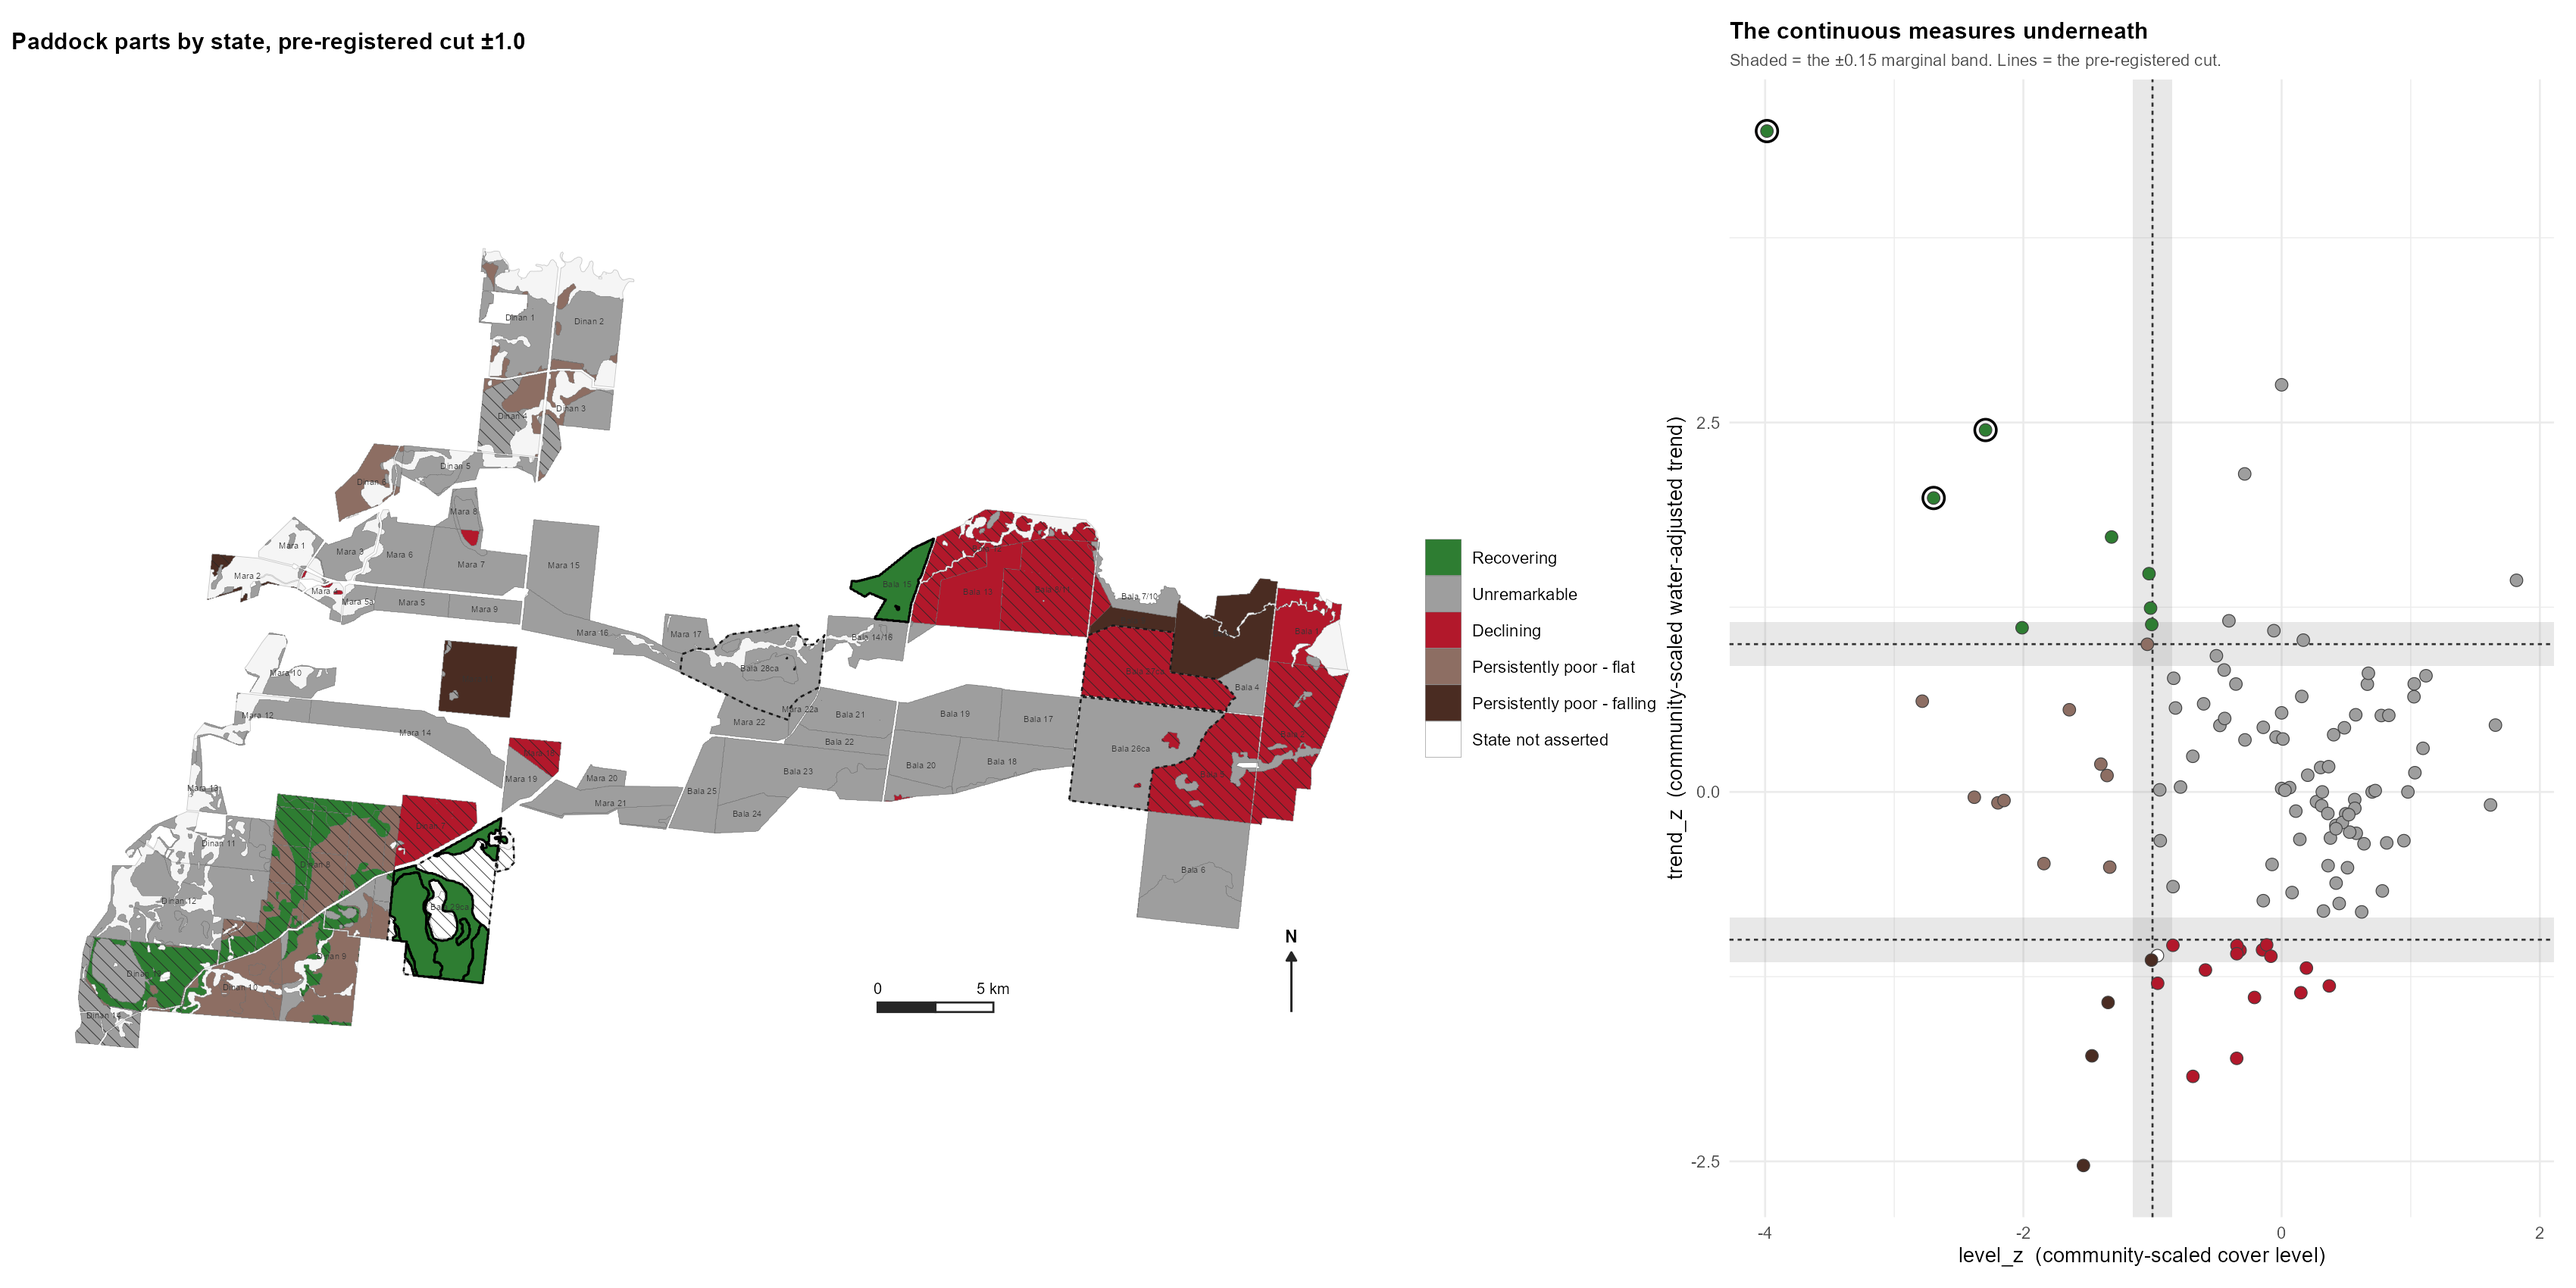
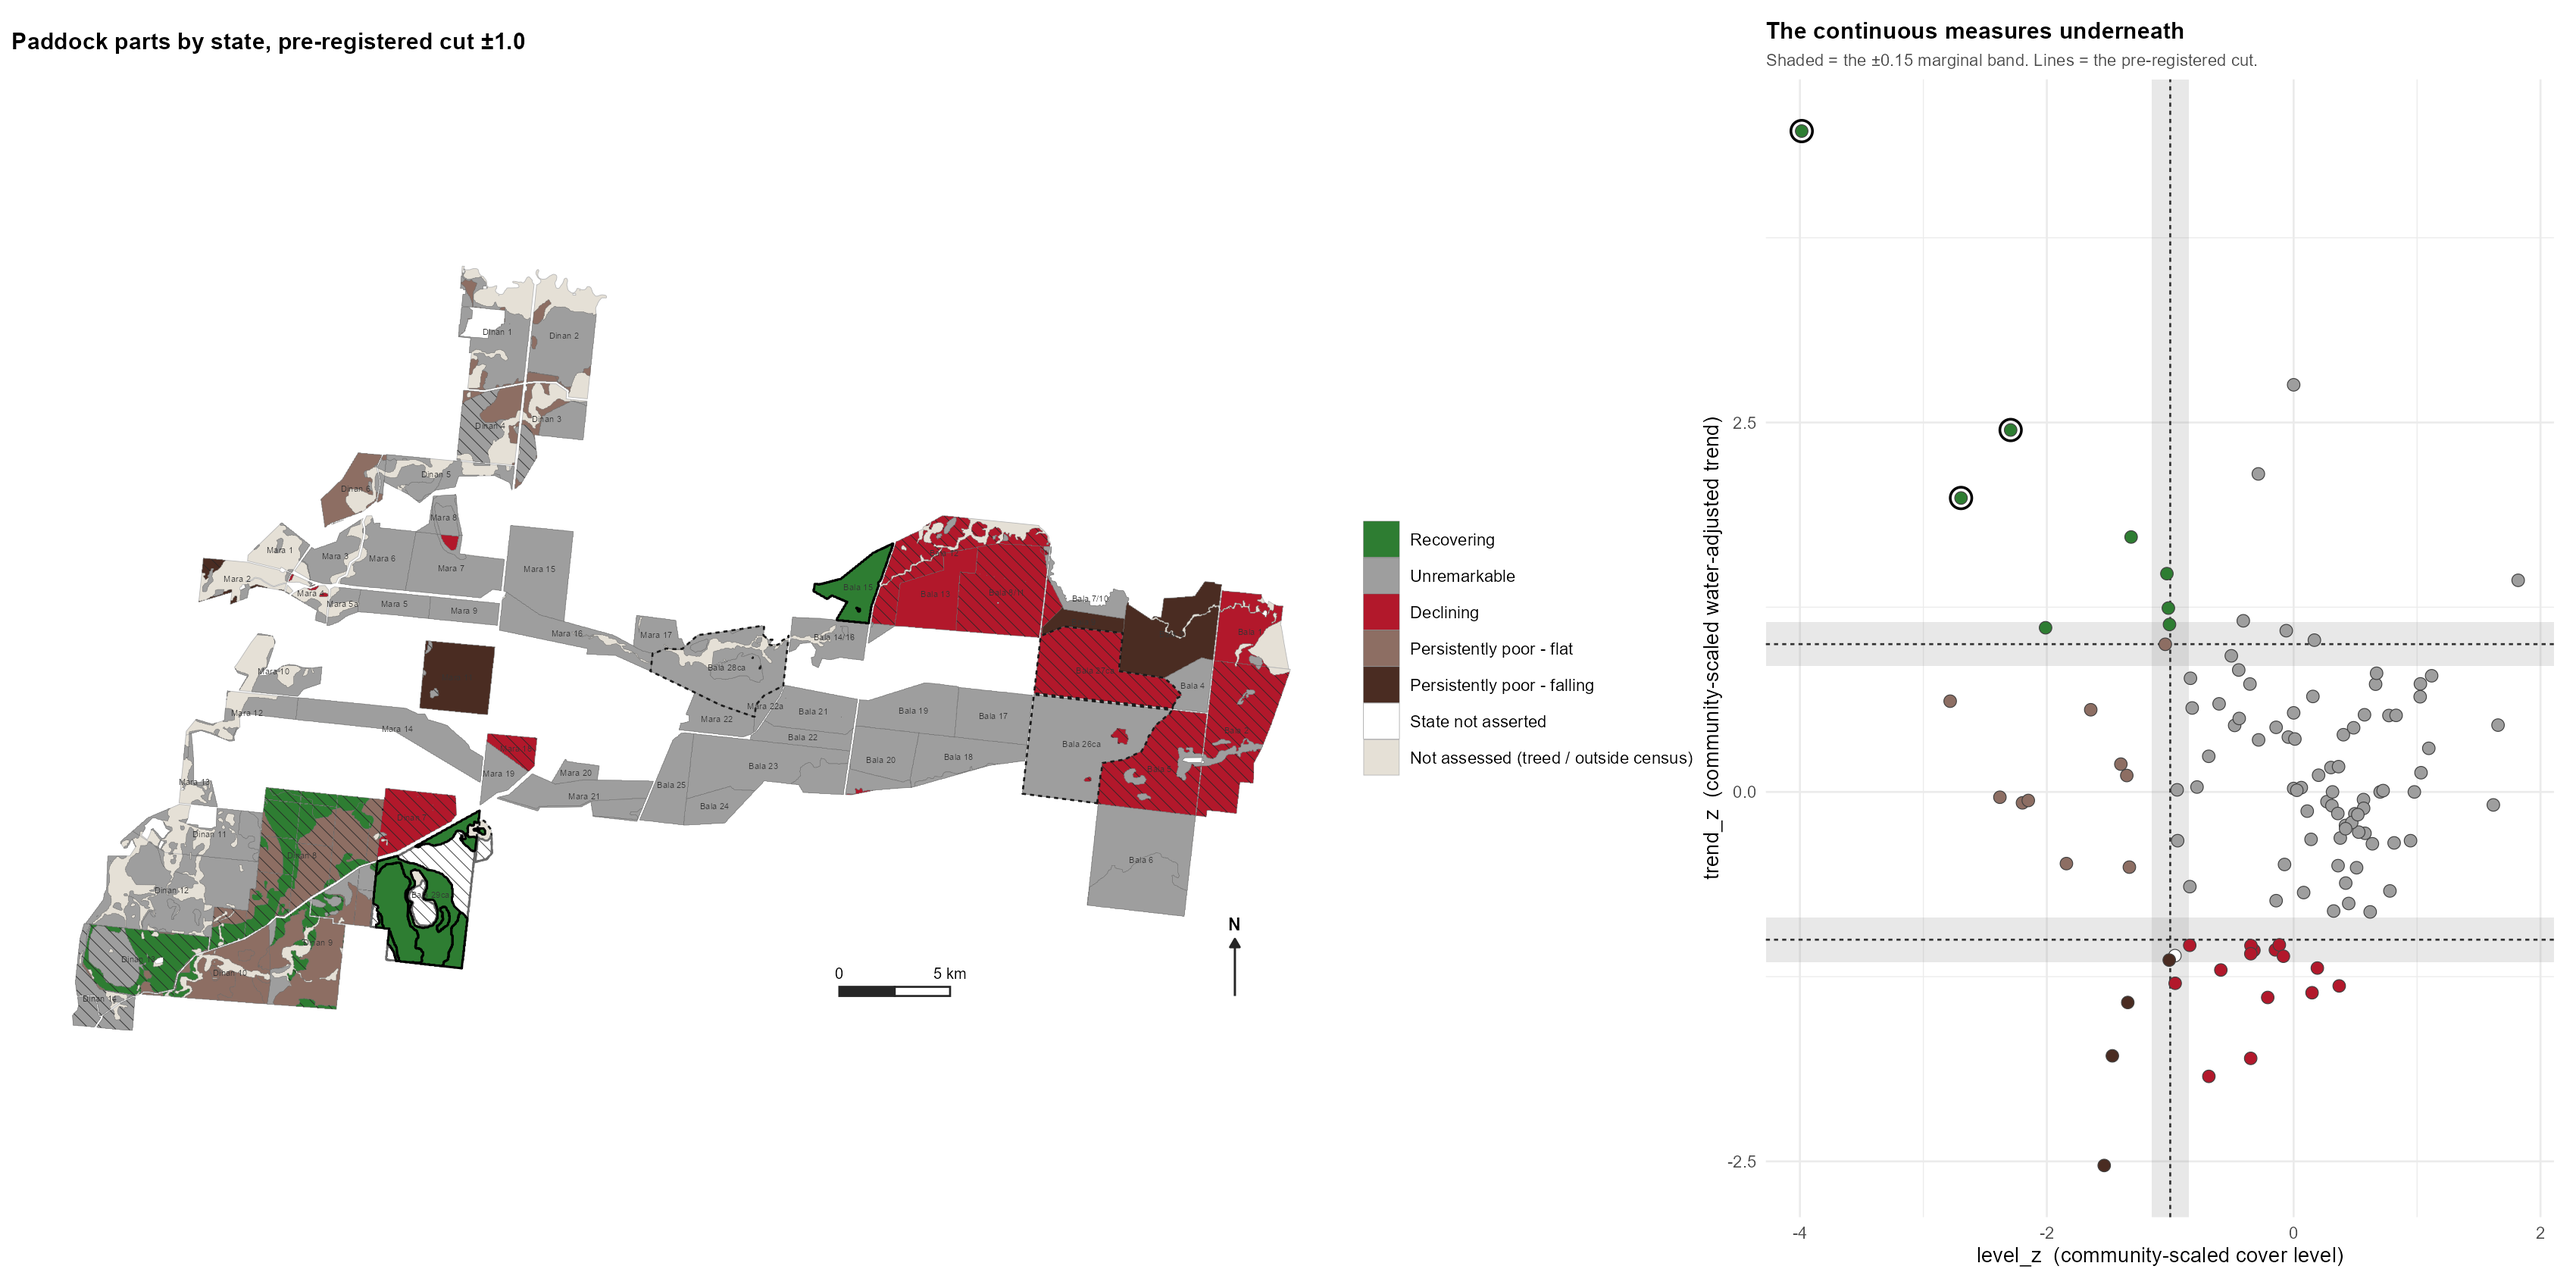
T13 Gate D fix: white meant two things - out-of-scope ground given its own fill and legend entry; geography finding and conserved-paddock note added
REQUIRED FIX. White was both the single deliberate abstention (Bala 29ca Inland) and
every out-of-scope hole - treed country, the context band, unzoned gaps - which was most
of the white on the map. One appearance, two meanings, the same class as the two floors.
Out-of-scope now fills #E5E0D6 with its own legend entry, drawn through aes() so it enters
the manual scale; Bala 29ca Inland stays white and gains a grey outline so it reads as
deliberate. Both captions state the two are different.

Addition 1 - geography verified independently, reproduces exactly (42/37/36 = 115):
declining is eastern (12 of 16 in Bala), recovering AND persistently poor are both
south-western (Dinan 5 of 8 and 10 of 14), the centre is almost entirely unremarkable
(Mara has zero recovering, 32 of 37 unremarkable). Stated in the report and one sentence
in the map caption. NOT attributed - no cause is claimed anywhere.

Addition 2 - two corrections to the ruling as written:
  * THREE conserved parts are Declining, not two. Bala 26ca Riverine (-0.322, -1.072) is
    the third, so three of the four reference paddocks carry a declining part.
  * Bala 27ca is MORE marginal on trend than Bala 29ca, not less: 0.038 from the trend
    cut against 29ca's 0.108 (29ca's 0.038 is on the LEVEL axis).
  The conclusion still holds on stronger ground: Bala 27ca is the only one of the three
  that is NOT a robustness mover - it stays Declining when the two wettest years are
[…]

diff --git a/docs/change_reports/T13_gateD_map.md b/docs/change_reports/T13_gateD_map.md
@@ -15,19 +15,18 @@ unregistered. No builder run, no existing object modified, no p-values.
 
 ---
 
-## 0. Two rulings were never stated in this session — flagging the gap
+## 0. Rulings 5 and 6 — RESOLVED
 
-Your message directs "GATE D PROCEEDS with rulings 5 and 6" and states the substance of **Ruling 6**
-(the marginal band, hatched, calibrated to 0.15). **Rulings 5 and 6 were never given in full text in
-this chat** — I have their substance only from the enumerated Gate D requirements in the same
-message. I have built to that enumerated list:
+Gate D was built before Rulings 5 and 6 had been stated in full text, from the enumerated
+requirements only. **Both have since been given and nothing was missed.**
 
-1. five fill classes · 2. hatching for the marginal set · 3. heavier outline on the 3-part core ·
-4. no state asserted for Bala 29ca Inland · 5. threshold lines and shaded marginal band on the
-scatter panel · 6. the OLS identity in the methods section · 7. the registered client sentence ·
-8. the community-SD scale line on the map, not only in methods.
+**Ruling 5** — *the sweep nesting is the headline rather than the count*: strictly nested, 15 at some
+cut, 3 at every cut, "the cut controls how many, not which", and the registered client sentence
+always carries the range. Built as §2 of the Gate C report and §5 below, and **rendered rather than
+asserted** in the sensitivity figure, where the recovering set shrinks 10 → 8 → 4 *in place*.
 
-If Ruling 5 contained anything beyond that list, it is not in this build. Please confirm.
+**Ruling 6** — the marginal band, hatched, at 0.15. Built; see §2 for the boundary-set correction,
+now ruled on.
 
 ---
 
@@ -123,8 +122,11 @@ own stated criterion, since 23 hatched reads more cleanly than 30. **Mara 18 is 
 the band, exactly as you predicted** — and it is not alone: Dinan 7 (0.188) and Bala 2 (0.205) are
 also union-only, the same three parts that Correction 2 identified as the non-marginal movers.
 
-**Say the word and I will switch to definition B.** I have not, because hatching a part that cannot
-change state is a claim the data does not support.
+**RULED, 31 July 2026: definition A stands.** `level_z = +1.0` is not a cut, the calibrated
+28 / 30 / 40 came from a phantom boundary, and 22 / 23 / 31 are correct. Band stays 0.15, boundary
+set = the three real cuts, **23 hatched**. Definition B is not to be used: seven *Unremarkable*
+parts hatched by a boundary that cannot change their state would have been **a false claim of
+uncertainty**, which is worse than the legibility gain.
 
 **Union definition as built and as stated in the caption:** a part is hatched if it is **within 0.15
 of an active cut OR changes state under the drop-two-wettest robustness run**. The caption says this
@@ -172,22 +174,103 @@ grid with the marginal polygons, and the north arrow and scale bar are drawn as 
 projected metres. Both are exact rather than approximate, and neither adds a dependency eleven days
 from the deadline. Flagging rather than installing packages on your workstation mid-gate.
 
-### The state palette is not a ratified object
+### White meant two things — fixed
 
-**No committed *state* palette exists.** The audited deck palette
-(`docs/change_reports/tier2H_gateE_palette_audit.md`) is per-**community**, and the states are not
-communities. The five hues are taken from the committed semantic set in
-`R/gayini_dashboard_panels.R` / `gayini_dashboard_figures.R` so the map reads with the rest of the
-deck: **veg-green `#2E7D32`** = recovering, **neutral grey `#9E9E9E`** = unremarkable, the committed
-**"drier" red `#B2182B`** = declining, **bare-brown `#8D6E63`** = low-and-flat. Only
-**low-and-falling `#4A2C22`** is derived (a darker bare-brown) and is the one non-committed hue.
+**The defect.** The legend read white = *State not asserted*, which is one part (Bala 29ca Inland).
+But white also filled **every out-of-scope area** — treed country, the context band, the unzoned
+gaps — which was most of the white on the map. A reader could not tell the single deliberate
+abstention from ninety holes. **One appearance, two meanings: the same class of error as the two
+floors.**
 
-**Deliberately not blue for recovering**, despite blue being the committed "good/wetter" pole in the
-dashboard palette: blue reads as **water** on every other map in this project (`flood = #2171B5`),
-and a blue "recovering" class beside a flood-frequency surface would be actively misleading. Flagged
-for ratification rather than presented as settled.
+**The fix.** Out-of-scope ground now carries its own fill, `#E5E0D6`, distinctly not white, with its
+own legend entry — *"Not assessed (treed / outside census)"* — drawn through `aes()` so it enters
+the manual scale rather than being a silent background. Bala 29ca Inland stays white and keeps its
+entry, and now also carries a grey outline so a white polygon reads as deliberate rather than as a
+gap. **Both captions state that the two are different things.**
+
+### The state palette — RATIFIED, with the reasoning recorded here
+
+**Recorded for the future, per the ruling: no state palette existed in this project before T13.**
+The audited deck palette (`docs/change_reports/tier2H_gateE_palette_audit.md`) is per-**community**,
+and states are not communities — so a set had to be derived. **This set is now the reference for any
+future state map.**
+
+| class | hue | provenance |
+|---|---|---|
+| Recovering | `#2E7D32` | committed `total_veg` green |
+| Unremarkable | `#9E9E9E` | committed neutral grey |
+| Declining | `#B2182B` | committed "drier" red |
+| Persistently poor — flat | `#8D6E63` | committed `bare` brown |
+| Persistently poor — falling | `#4A2C22` | **DERIVED** — darker bare; the only non-committed hue |
+| State not asserted | `#FFFFFF` | deliberate abstention |
+| Not assessed | `#E5E0D6` | out-of-scope ground |
+
+**Blue was refused for *Recovering* on purpose.** Blue is the committed "good / wetter" pole in the
+dashboard palette, but on every other map in this project blue reads as **water** (`flood = #2171B5`),
+and a blue "recovering" class beside a flood-frequency surface would be actively misleading. Not
+viridis (§6).
 
 ---
+
+## 3b. The geography is a finding — stated, never explained
+
+Independently verified from `Output/tables/T13_gateC_classification.csv` (as of 31 July 2026);
+reproduces the design-seat table exactly. Groups are the three paddock families by name, which map
+onto east / centre / south-west; all 115 parts fall in one of the three.
+
+| state | Bala (E) | Mara (C) | Dinan (SW) | total |
+|---|---|---|---|---|
+| Recovering | 3 | **0** | 5 | 8 |
+| Declining | **12** | 3 | 1 | 16 |
+| Persistently poor | 2 | 2 | **10** | 14 |
+| Unremarkable | 25 | **32** | 20 | 77 |
+| **total** | 42 | 37 | 36 | 115 |
+
+**Declining is an eastern phenomenon — 12 of 16 sit in the Bala group.** Recovering *and*
+persistently-poor are both south-western: Dinan holds 5 of 8 recovering and 10 of 14 persistently
+poor. The centre is almost entirely unremarkable — **Mara has no recovering parts at all**, and 32
+of its 37 are unremarkable.
+
+This is legible from the map before a reader reaches the legend, and it is the most client-usable
+statement the task produces. One sentence of it is now in the Figure 1 caption.
+
+**No cause is attributed, on the map or here.** We do not know why the east is declining. The
+south-west pattern in particular sits on top of the Bala 29ca / Dinan cluster that L-01 and T10
+already identified as compositionally unusual, and the eastern group contains the largest paddocks;
+neither observation is an explanation. Nothing in the classification refers to grazing, treatment or
+zones by construction (§8), so this is a spatial pattern in cover and water, and stops there.
+
+## 3c. Three conserved paddocks are in the declining set — not two
+
+| part | `level_z` | `trend_z` | dist to level cut | dist to trend cut | robustness mover? | state on drop-2 |
+|---|---|---|---|---|---|---|
+| Bala 29ca · Inland | −0.962 | −1.108 | **0.038** | 0.108 | **yes** | Unremarkable |
+| Bala 27ca · Inland | −0.842 | −1.038 | 0.158 | **0.038** | **no** | **Declining** |
+| Bala 26ca · Riverine | −0.322 | −1.072 | 0.678 | 0.072 | **yes** | Unremarkable |
+
+**Two corrections to the ruling as written:**
+
+1. **There are three, not two.** **Bala 26ca · Riverine** (`level_z` −0.322, `trend_z` −1.072) also
+   classifies as *Declining*. So **three of the four reference paddocks** carry a declining part —
+   which sharpens rather than softens the standing "conserved is a management category, not a
+   condition state" finding.
+2. **Bala 27ca is *more* marginal on trend than Bala 29ca is, not less.** 27ca sits **0.038** from
+   the `trend_z` cut; 29ca sits **0.108** from it. 29ca's 0.038 is on the **level** axis. So the
+   stated reason for asserting 27ca does not hold as written.
+
+**But the conclusion holds, on stronger ground.** Bala 27ca is **the only one of the three that is
+not a robustness mover** — it stays *Declining* when the two wettest years are dropped, while 29ca
+and 26ca both fall to *Unremarkable*. Surviving the robustness run is a better warrant for asserting
+a state than distance to a cut, so **27ca's state is asserted** and 29ca's is not, exactly as ruled.
+
+**Flagged for your call:** by the same test, **Bala 26ca · Riverine is in 29ca's position, not
+27ca's** — marginal on trend and a robustness mover. It is currently drawn as *Declining* because
+the ruling named only 29ca. It is hatched, so the map does not claim certainty, but the treatment is
+asymmetric. Say if you want it abstained too.
+
+**On Bala 27ca specifically:** this is a third independent route to the same conclusion — no
+monitoring sites, the smallest cross-sectional residual, a negative water-adjusted paddock trend at
+T10, and now a part-grain *Declining* that survives dropping the two biggest floods.
 
 ## 4. Methods — the OLS identity
 
